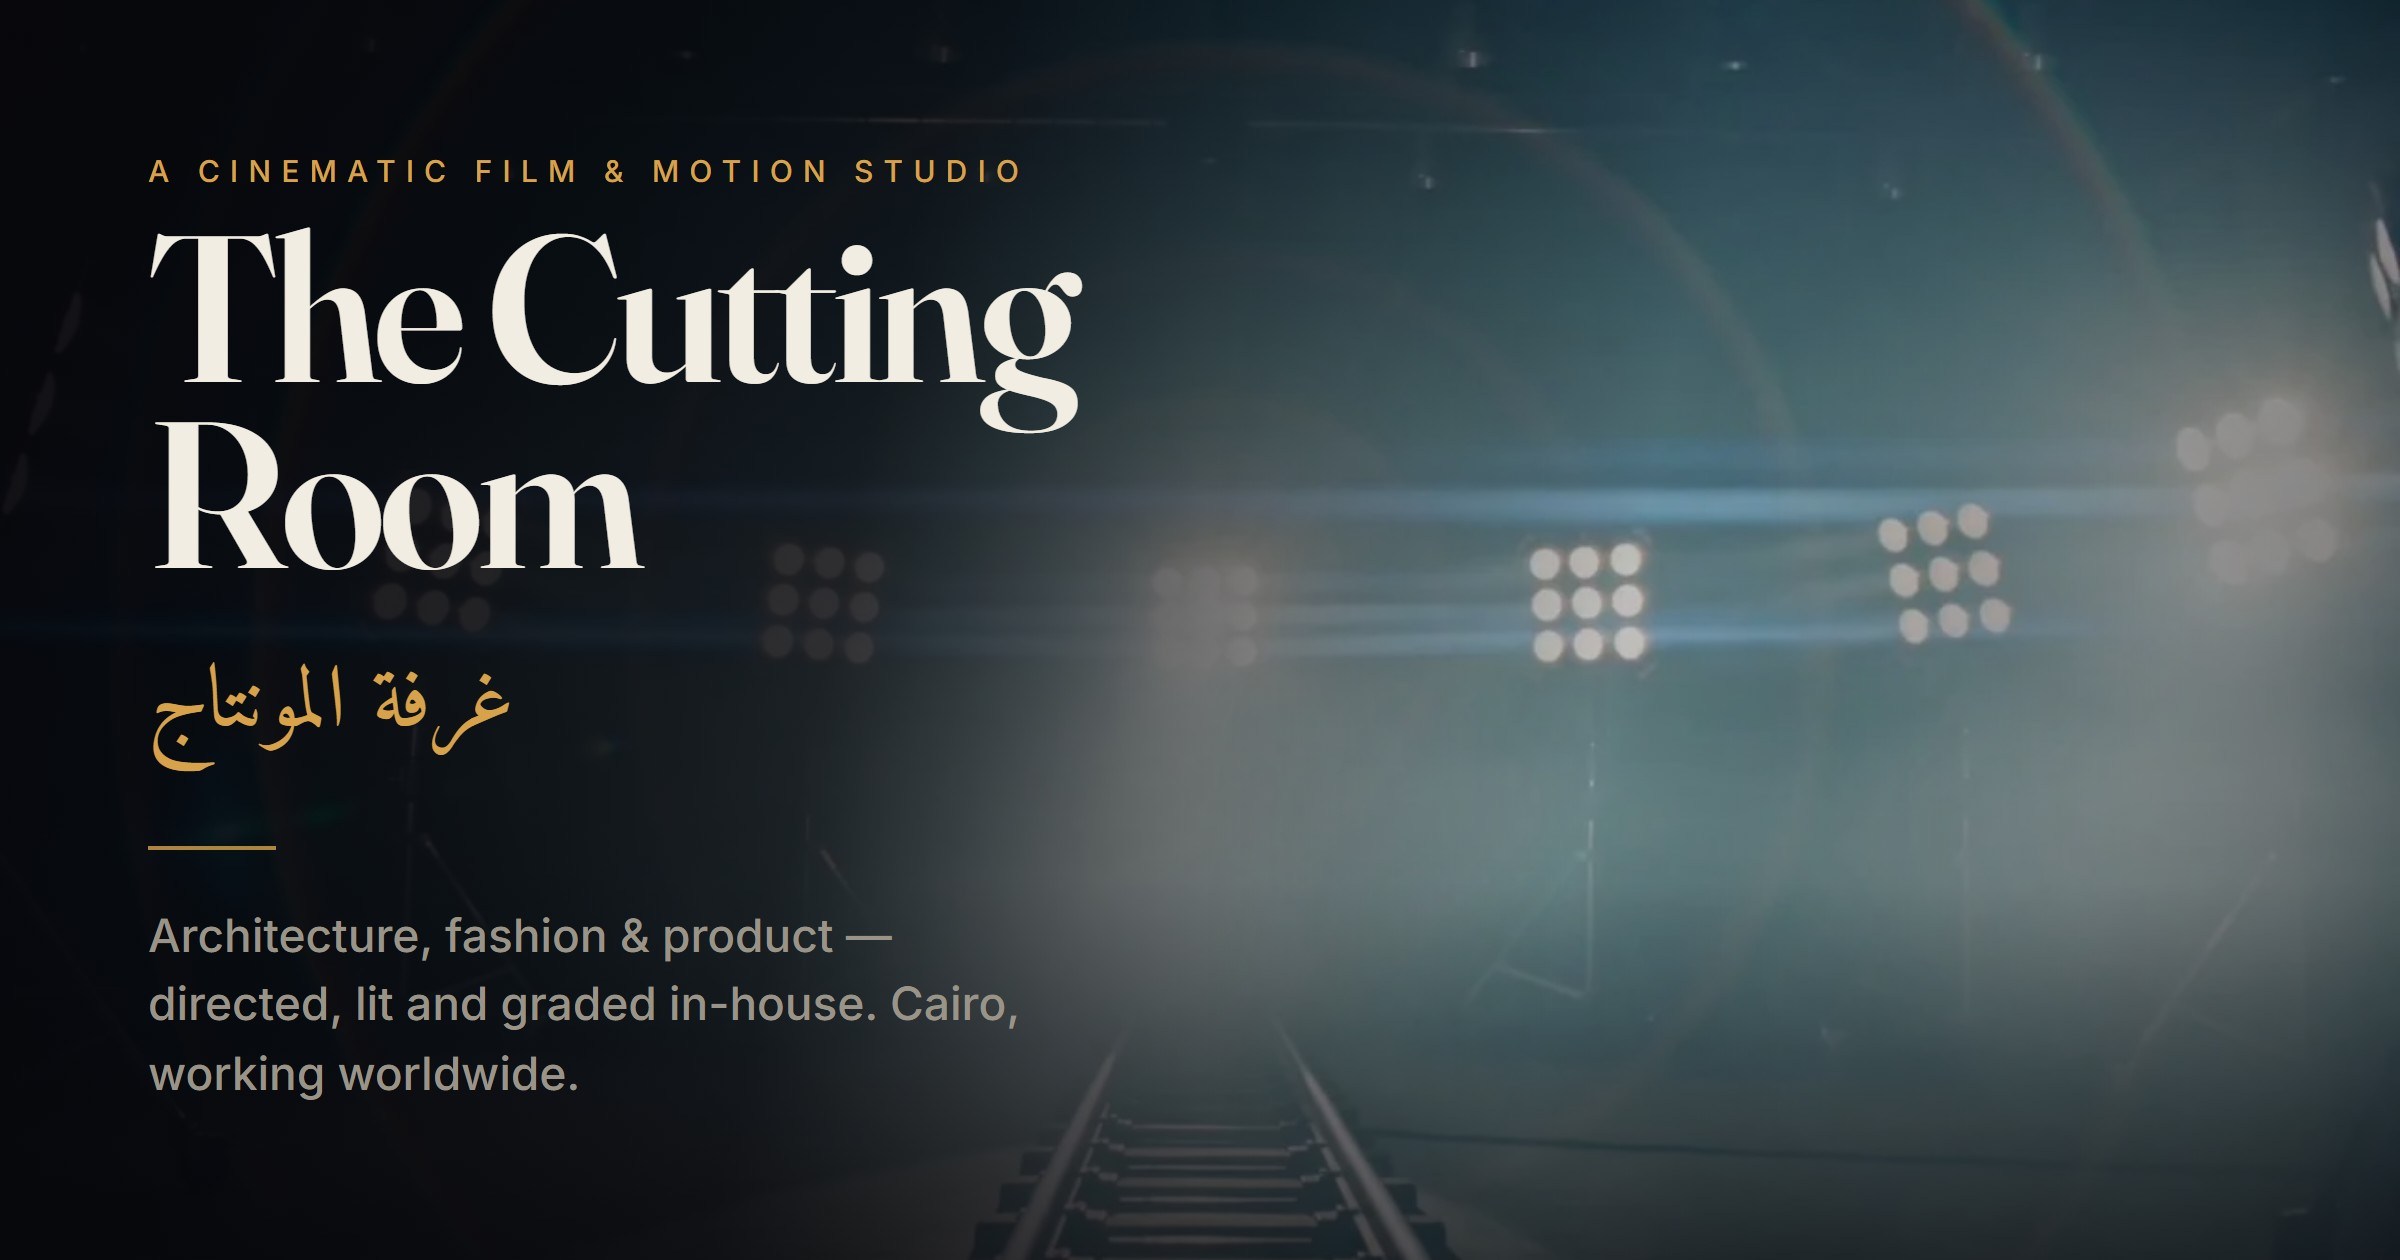
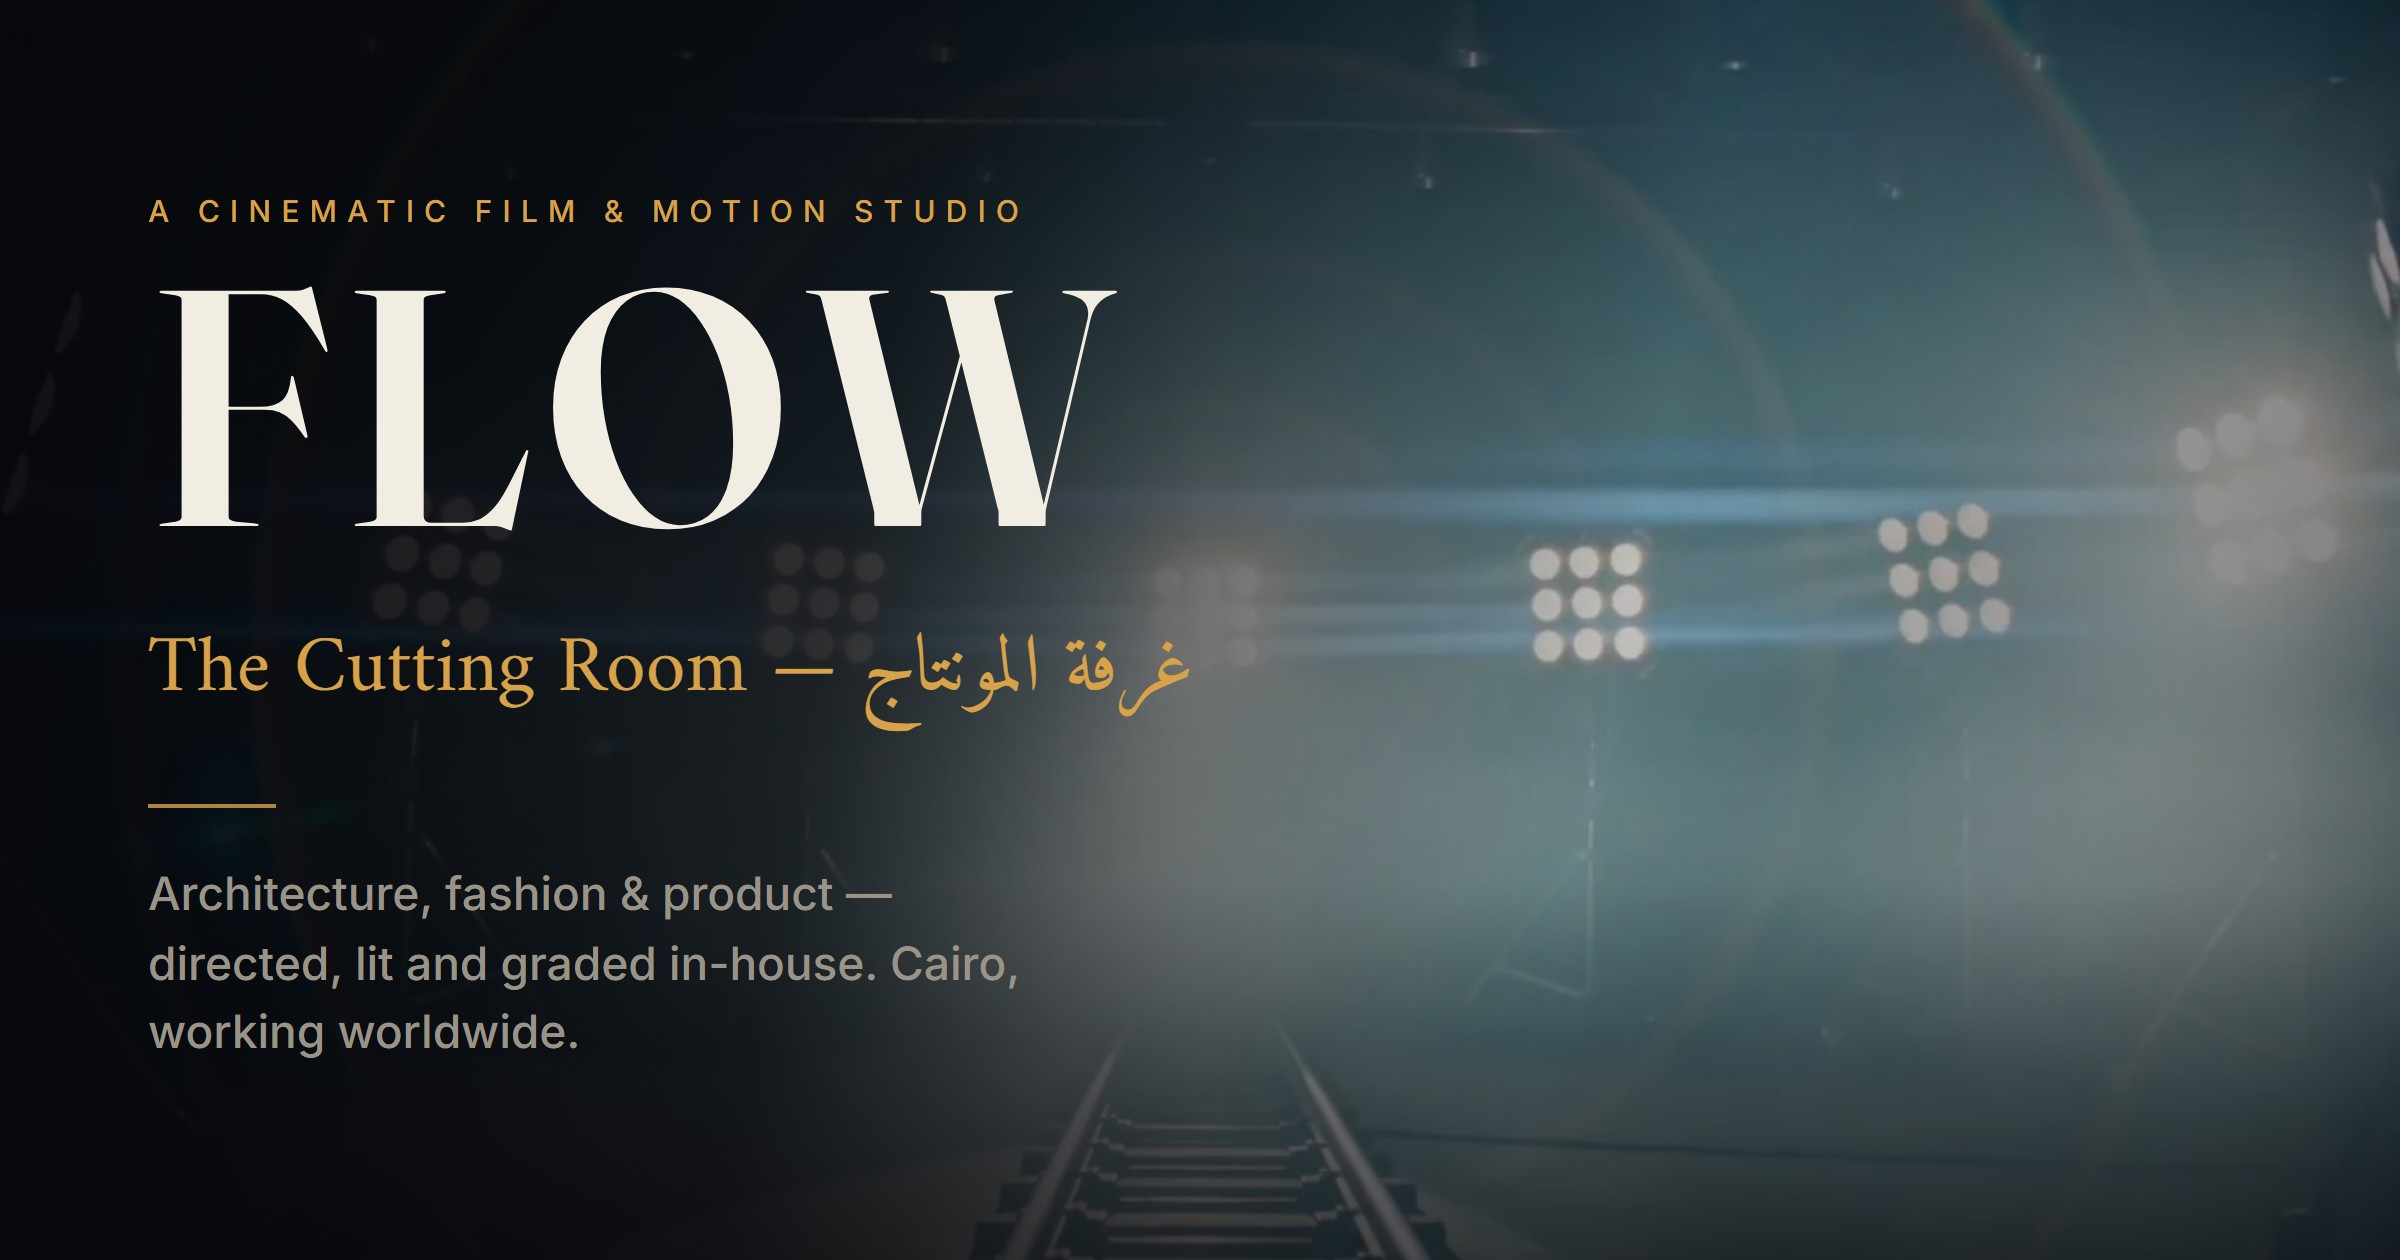
Flow brand rollout: FLOW primary mark, The Cutting Room as descriptor (nav, hero eyebrow, metadata, OG card, marquee, floor stencil, loader, colophon)

Changed region(s): [[0.0625, 0.1238, 0.4688, 0.4643], [0.0625, 0.4952, 0.5, 0.8667]]

diff --git a/app/globals.css b/app/globals.css
@@ -240,7 +240,8 @@ html[data-phase="browse"] .hero-video, html[data-phase="outro"] .hero-video, htm
 .brand { display: flex; flex-direction: column; gap: 0.25rem; line-height: 1; }
 .brand-en { font-family: var(--font-display); font-variation-settings: "opsz" 22; font-weight: 500;
   text-transform: uppercase; letter-spacing: 0.16em; font-size: var(--t-sm); }
-.brand-ar { font-family: var(--font-ar); color: var(--muted); font-size: 0.82rem; letter-spacing: 0.02em; opacity: 0.85; }
+.brand-sub { font-family: var(--font-body); color: var(--muted); font-size: 0.63rem; letter-spacing: 0.2em; text-transform: uppercase; opacity: 0.85; }
+.brand-sub [dir="rtl"] { font-family: var(--font-ar); font-size: 0.8rem; letter-spacing: 0.02em; text-transform: none; }
 .nav-right { display: flex; align-items: center; gap: clamp(0.9rem, 2vw, 1.8rem); }
 .nav-meta { text-align: right; line-height: 1.35; }
 .nav-meta .k { font-size: var(--t-2xs); letter-spacing: var(--track-micro); text-transform: uppercase; color: var(--muted); display: block; }
@@ -517,5 +518,5 @@ html[data-phase="focus"] .hud, html[data-phase="focus"] .hint, html[data-phase="
   .hero-tag { max-width: 30ch; }
   /* film is full-bleed on a portrait phone → vertical scrim so the title & tag read over it */
   .hero-scrim { background: linear-gradient(180deg, rgba(5,5,9,0.85) 0%, rgba(5,5,9,0.3) 40%, rgba(5,5,9,0.36) 60%, rgba(5,5,9,0.82) 100%); }
-  .brand-ar { display: none; }
+  .brand-sub { display: none; }
 }

diff --git a/app/layout.tsx b/app/layout.tsx
@@ -15,15 +15,15 @@ const mono = JetBrains_Mono({ subsets: ["latin"], variable: "--font-mono", displ
 
 // metadataBase makes the relative OG image resolve to an absolute URL; set NEXT_PUBLIC_SITE_URL at deploy.
 const SITE = process.env.NEXT_PUBLIC_SITE_URL ?? "https://omarradwann.github.io/cutting-room";
-const TITLE = "The Cutting Room — A Cinematic Film & Motion Studio";
-const DESC = "A cinematic film, motion & 3D studio — architecture, fashion and product, directed, lit and graded in-house. Cairo, working worldwide.";
+const TITLE = "FLOW — The Cutting Room · A Cinematic Film & Motion Studio";
+const DESC = "FLOW is a cinematic film, motion & 3D studio — architecture, fashion and product, directed, lit and graded in-house. Cairo, working worldwide.";
 export const metadata: Metadata = {
   metadataBase: new URL(SITE),
-  title: { default: TITLE, template: "%s — The Cutting Room" },
+  title: { default: TITLE, template: "%s — FLOW" },
   description: DESC,
   openGraph: {
-    title: TITLE, description: DESC, type: "website", siteName: "The Cutting Room",
-    images: [{ url: "/og.jpg", width: 1200, height: 630, alt: "The Cutting Room" }],
+    title: TITLE, description: DESC, type: "website", siteName: "FLOW",
+    images: [{ url: "/og.jpg", width: 1200, height: 630, alt: "FLOW — The Cutting Room" }],
   },
   twitter: { card: "summary_large_image", title: TITLE, description: DESC, images: ["/og.jpg"] },
 };

diff --git a/app/page.tsx b/app/page.tsx
@@ -66,7 +66,7 @@ export default function Page() {
       <main id="main" className="content">
         <section className="hero">
           <div className="hero-inner">
-            <div className="hero-eyebrow">Selected work — film · motion · 3D</div>
+            <div className="hero-eyebrow">Flow — selected work · film · motion · 3D</div>
             {/* the rise is PAUSED by CSS until the preloader lifts (html[data-entered]) — plays in view, always */}
             <Kinetic as="h1" className="hero-title" text="The Cutting Room" by="word" trigger="load" delay={0.15} />
             <div className="hero-ar" dir="rtl">غرفة المونتاج</div>
@@ -115,7 +115,7 @@ export default function Page() {
 
           <div className="foot">
             <span>Cairo — القاهرة</span>
-            <span className="mono2">THE CUTTING ROOM · MMXXVI</span>
+            <span className="mono2">FLOW · THE CUTTING ROOM · MMXXVI</span>
           </div>
         </section>
       </main>

diff --git a/components/Preloader.tsx b/components/Preloader.tsx
@@ -72,7 +72,7 @@ export default function Preloader() {
         <FlowMark />
         <div style={{ display: "flex", flexDirection: "column", alignItems: "center", gap: "0.55rem" }}>
           <div style={{ fontFamily: "var(--font-body)", textTransform: "uppercase", letterSpacing: "0.3em", fontSize: "0.62rem", color: "var(--muted)" }}>
-            A film &amp; motion studio
+            The Cutting Room — a film &amp; motion studio
           </div>
           <div style={{ position: "relative", width: 168, height: 2, background: "rgba(242,237,227,0.14)", overflow: "hidden" }}>
             <i style={{ position: "absolute", inset: 0, background: "var(--accent)", transformOrigin: "left", transform: `scaleX(${disp / 100})`, transition: "transform 0.3s linear", display: "block" }} />

diff --git a/components/Room.tsx b/components/Room.tsx
@@ -43,8 +43,8 @@ function markingsTex(): THREE.CanvasTexture | null {
   // the production stencil, arced along the front guide
   ctx.fillStyle = "rgba(232,225,210,0.4)"; ctx.font = '600 46px "JetBrains Mono", monospace';
   ctx.textAlign = "center"; ctx.textBaseline = "middle";
-  const label = "STAGE 01 · THE CUTTING ROOM";
-  const rText = (RADIUS + 1.35) * s, arc = 0.62; // radians of total sweep, centred at the front
+  const label = "FLOW · STAGE 01 · THE CUTTING ROOM";
+  const rText = (RADIUS + 1.35) * s, arc = 0.78; // radians of total sweep, centred at the front (scaled to the longer label)
   for (let i = 0; i < label.length; i++) {
     const t = i / (label.length - 1) - 0.5, a = t * arc; // 0 at front centre
     ctx.save();

diff --git a/components/SiteNav.tsx b/components/SiteNav.tsx
@@ -9,8 +9,9 @@ export default function SiteNav() {
   return (
     <nav className="nav">
       <div className="brand" data-magnetic>
-        <span className="brand-en">THE CUTTING ROOM</span>
-        <span className="brand-ar" dir="rtl">غرفة المونتاج</span>
+        <span className="brand-en">FLOW</span>
+        {/* the studio is FLOW; "The Cutting Room" stays as the descriptor of the place */}
+        <span className="brand-sub">The Cutting Room · <span dir="rtl" lang="ar">غرفة المونتاج</span></span>
       </div>
       <div className="nav-right">
         <div className="nav-meta">

diff --git a/components/Marquee.tsx b/components/Marquee.tsx
@@ -4,7 +4,7 @@ import gsap from "gsap";
 import { scroll } from "@/lib/scroll-store";
 import { prefersReducedMotion } from "@/lib/reduced-motion";
 
-const LINE = "FILM — MOTION — 3D — CAIRO — THE CUTTING ROOM — ";
+const LINE = "FLOW — FILM — MOTION — 3D — CAIRO — THE CUTTING ROOM — ";
 
 /**
  * Velocity-reactive kinetic marquee (the award-site type move): an outlined display band that drifts
